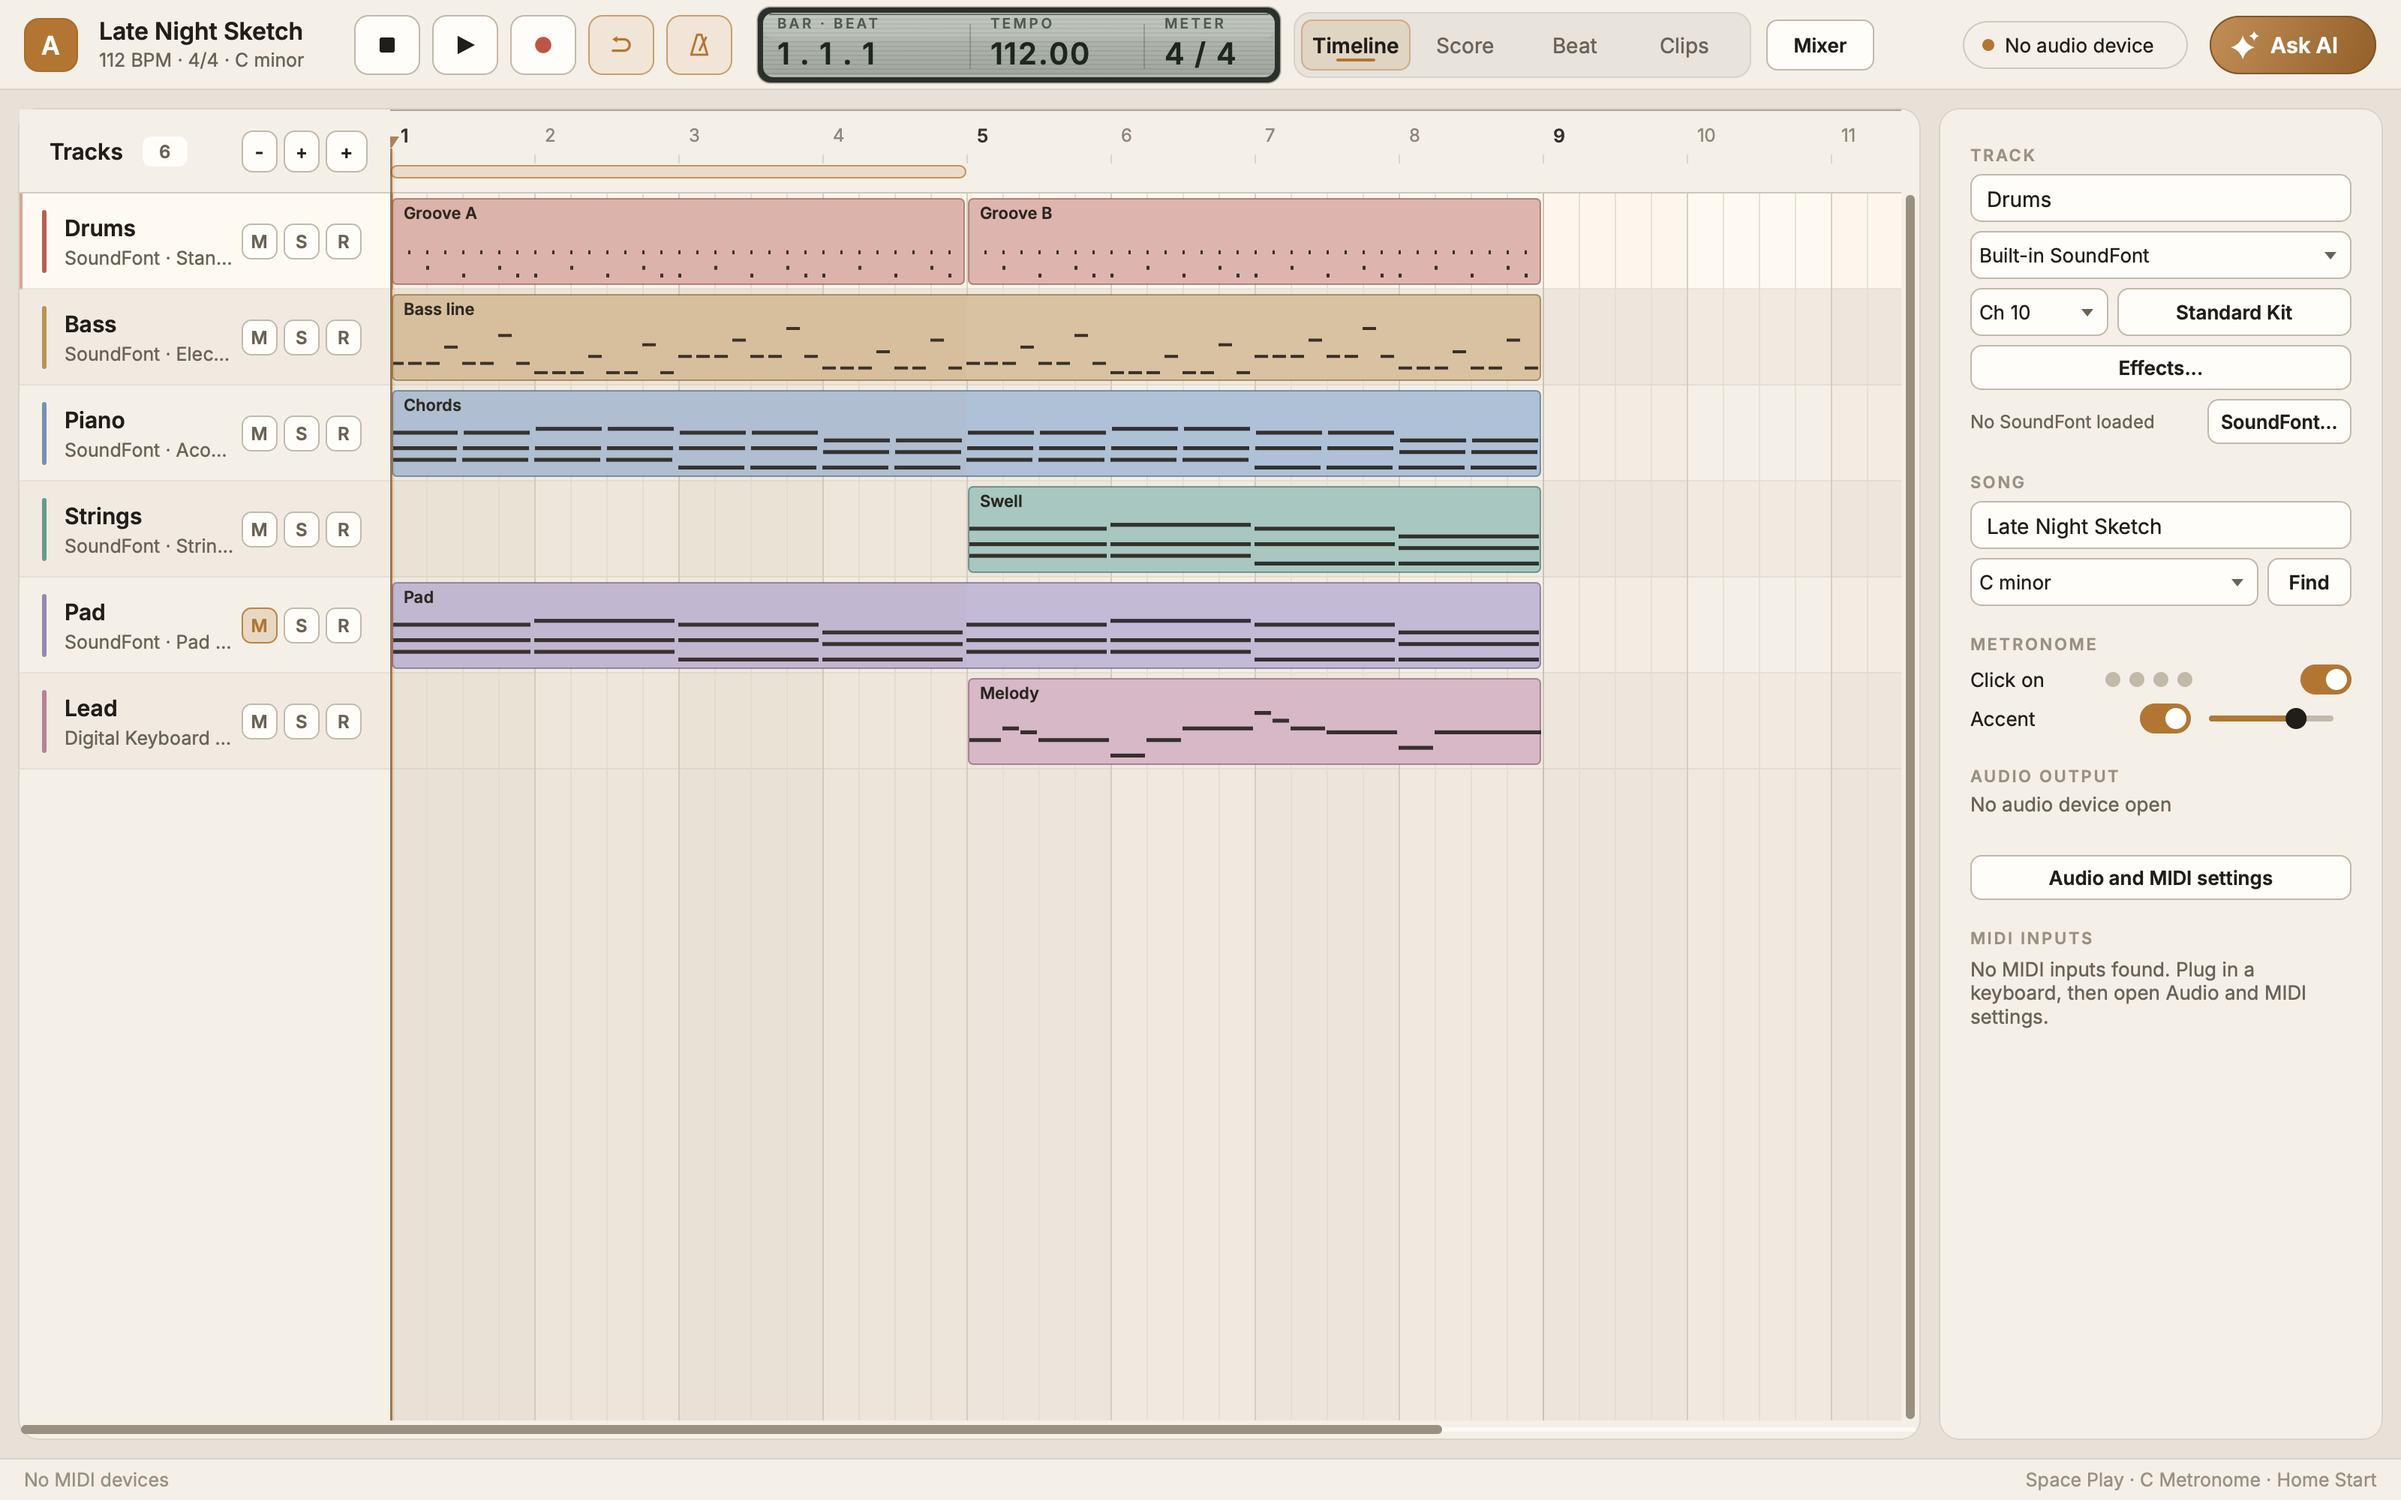
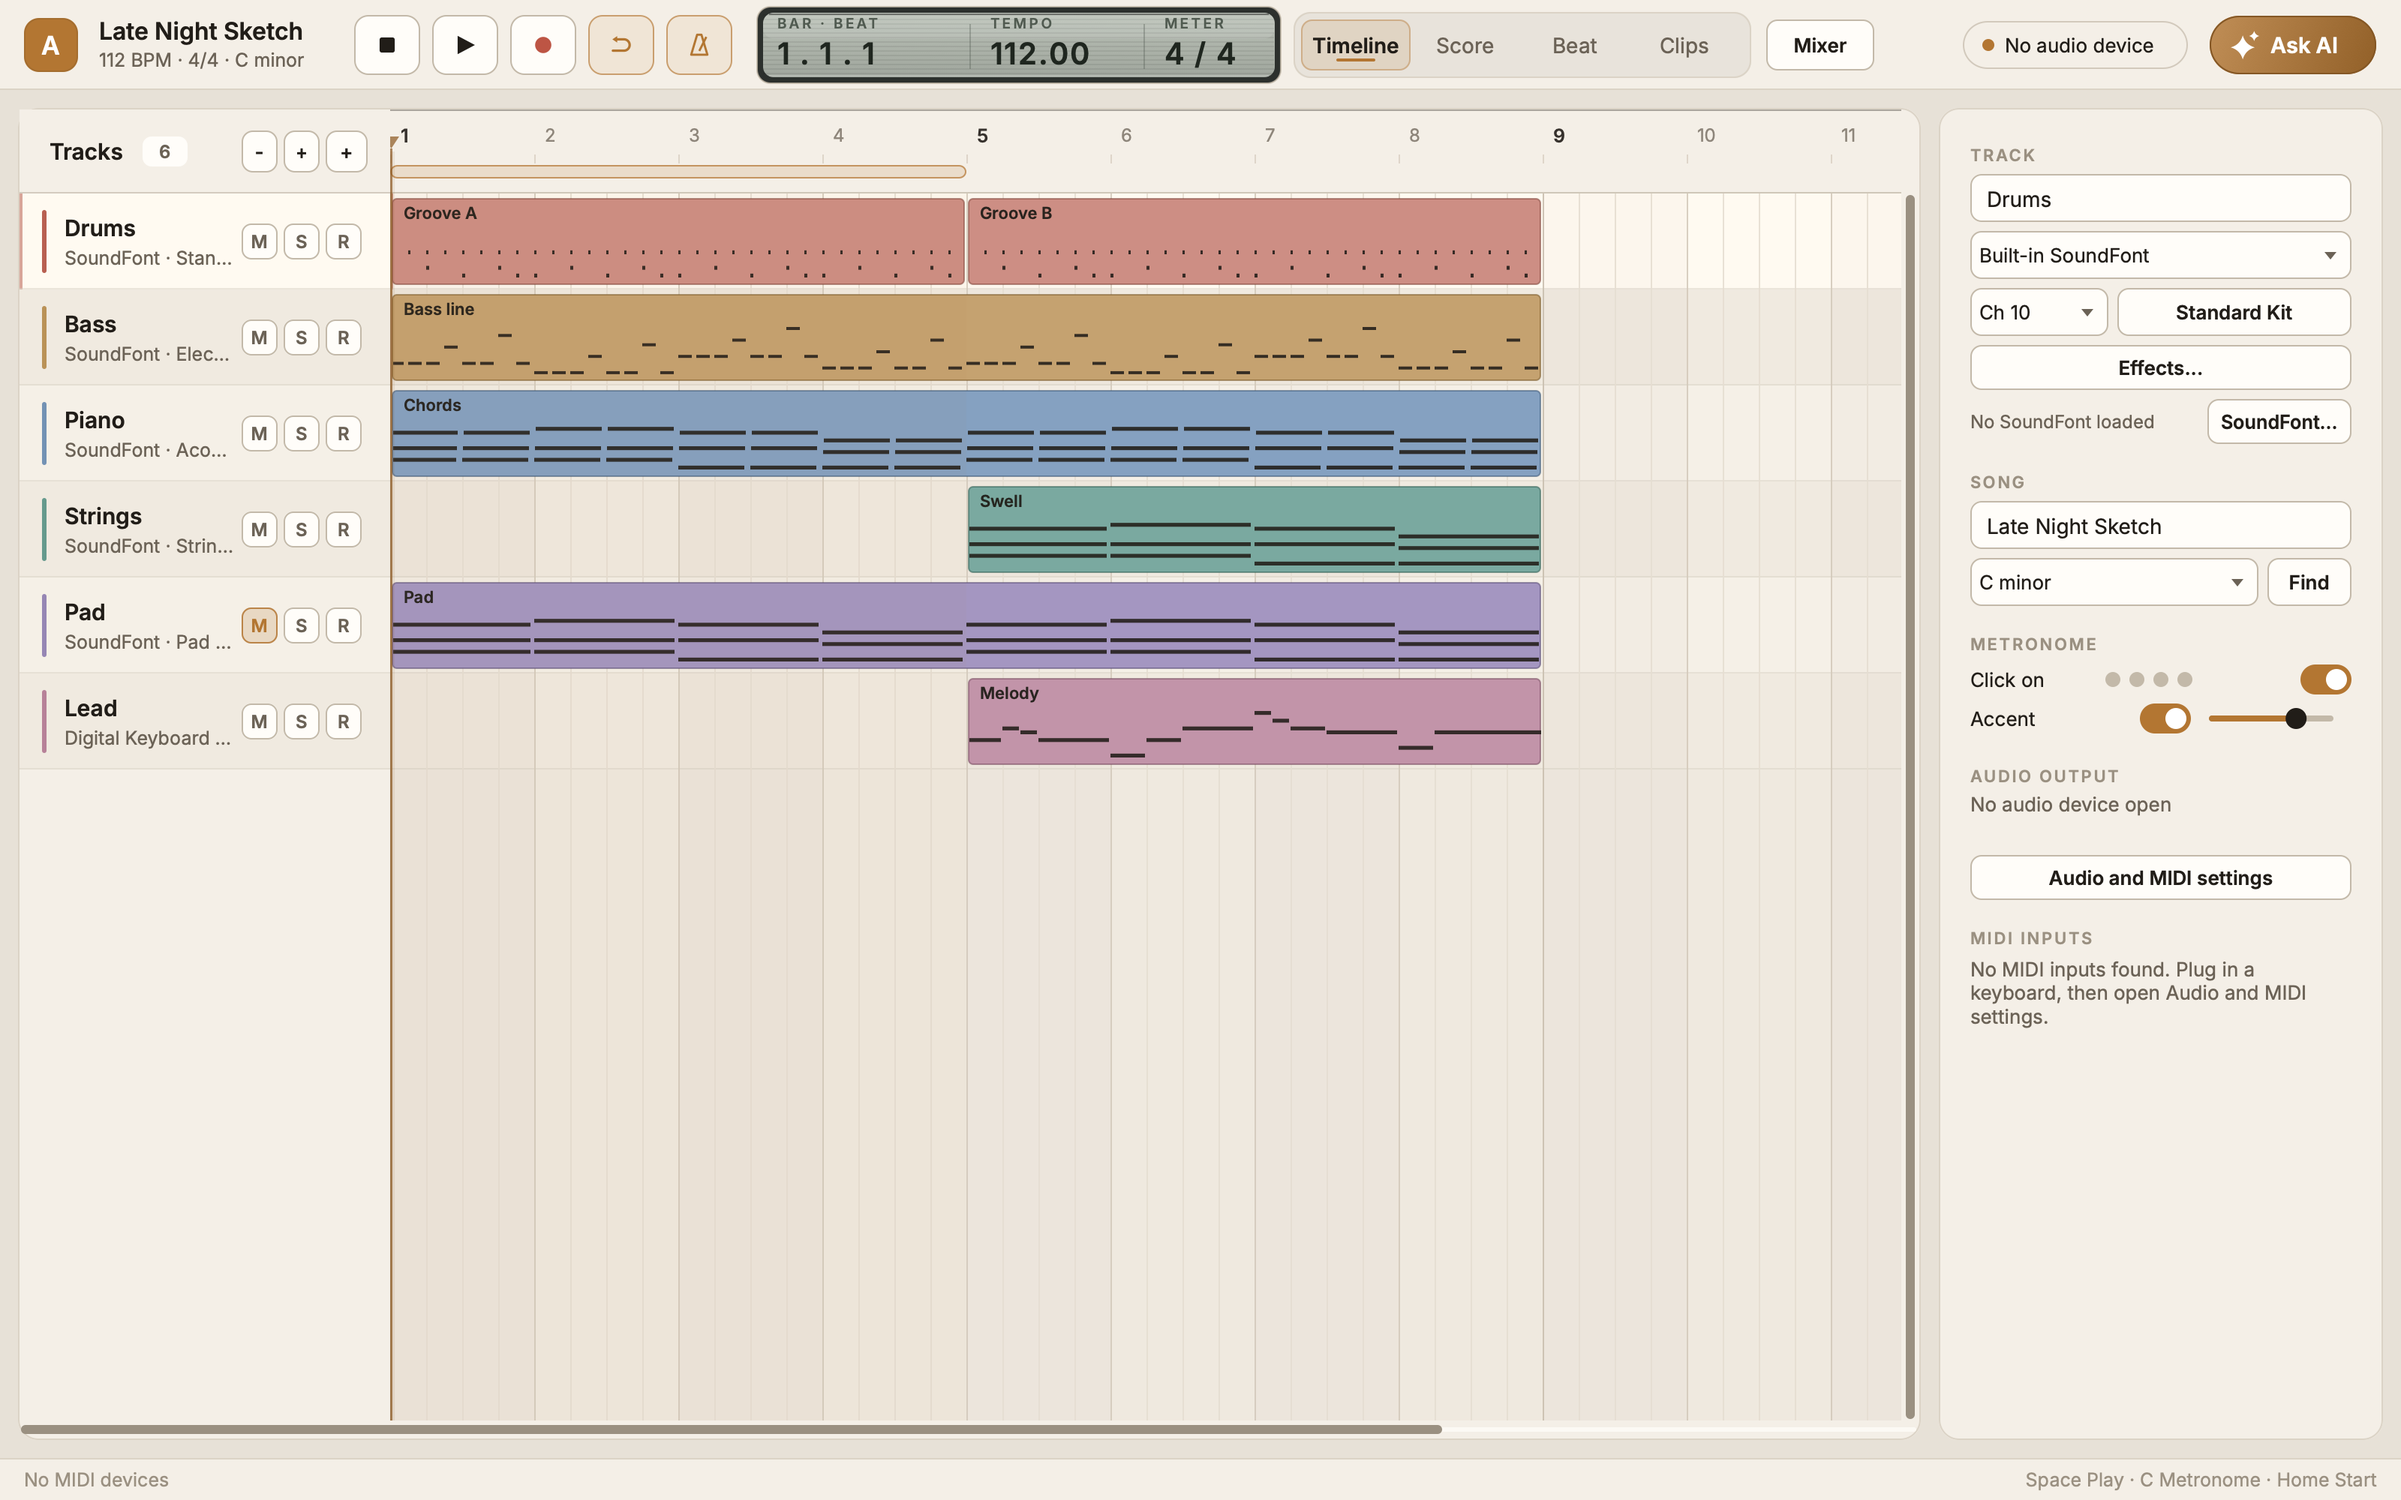
Vibrant clips, a filling Beat grid and a live Score cursor

Changed region(s): [[0.1562, 0.124, 0.6562, 0.527]]

diff --git a/src/app/ui/ScoreView.cpp b/src/app/ui/ScoreView.cpp
@@ -123,6 +123,50 @@ public:
         return {};
     }
 
+    /** Moves the playback cursor and repaints only the two thin strips that change. */
+    void updatePlayhead (Tick tick, bool playing)
+    {
+        Cursor next;
+        if (playing)
+        {
+            for (const auto& bar : view.layout.bars)
+            {
+                if (tick < bar.start || tick >= bar.start + bar.length)
+                    continue;
+                const float barX = score::xOfTick (view.layout, bar.page, bar.staff, bar.top, tick);
+                if (barX <= 0.0f)
+                    continue;
+                if (next.page < 0)
+                {
+                    next.page = bar.page;
+                    next.x = barX;
+                    next.top = bar.top;
+                    next.bottom = bar.top + 4.0f;
+                }
+                else if (next.page == bar.page)
+                {
+                    next.top = std::min (next.top, bar.top);
+                    next.bottom = std::max (next.bottom, bar.top + 4.0f);
+                }
+            }
+            if (next.page >= 0)
+            {
+                next.top -= 2.0f;
+                next.bottom += 2.0f;
+            }
+        }
+
+        if (next.page == cursor.page && next.x == cursor.x && next.top == cursor.top && next.bottom == cursor.bottom)
+            return;
+        const auto oldRect = cursorBounds (cursor);
+        cursor = next;
+        const auto newRect = cursorBounds (cursor);
+        if (! oldRect.isEmpty())
+            repaint (oldRect.expanded (4.0f).getSmallestIntegerContainer());
+        if (! newRect.isEmpty())
+            repaint (newRect.expanded (4.0f).getSmallestIntegerContainer());
+    }
+
     /** The page under a point, and the point in the page's staff spaces. */
     bool locate (juce::Point<float> at, int& page, float& x, float& y) const
     {
@@ -138,6 +182,21 @@ public:
             }
         }
         return false;
+    }
+
+    struct Cursor
+    {
+        int page = -1;
+        float x = 0.0f, top = 0.0f, bottom = 0.0f;
+    };
+
+    juce::Rectangle<float> cursorBounds (const Cursor& c) const
+    {
+        if (c.page < 0)
+            return {};
+        const auto paper = paperOf (static_cast<std::size_t> (c.page));
+        const float s = scale();
+        return { paper.getX() + c.x * s - 1.5f, paper.getY() + c.top * s, 3.0f, (c.bottom - c.top) * s };
     }
 
     void mouseDown (const juce::MouseEvent& e) override
@@ -232,11 +291,25 @@ public:
                     g.fillEllipse (juce::Rectangle<float> (1.4f * s, 1.0f * s).withCentre (toPixels (view.ghost.x, view.ghost.y)));
                 }
             }
+            if (cursor.page == static_cast<int> (i))
+            {
+                const float cx = paper.getX() + cursor.x * s;
+                const float top = paper.getY() + cursor.top * s;
+                const float bottom = paper.getY() + cursor.bottom * s;
+                g.setColour (accent.withAlpha (0.10f));
+                g.fillRect (juce::Rectangle<float> (cx - 2.0f, top, 4.0f, bottom - top));
+                g.setColour (accent.withAlpha (0.9f));
+                g.fillRect (juce::Rectangle<float> (cx - 0.75f, top, 1.5f, bottom - top));
+                juce::Path head;
+                head.addTriangle (cx - 4.0f, top - 6.0f, cx + 4.0f, top - 6.0f, cx, top);
+                g.fillPath (head);
+            }
         }
     }
 
 private:
     ScoreView& view;
+    Cursor cursor;
 };
 
 // ---------------------------------------------------------------------------
@@ -340,6 +413,13 @@ const score::Layout& ScoreView::currentLayout()
 {
     rebuild();
     return layout;
+}
+
+void ScoreView::refresh()
+{
+    rebuild();
+    if (pages != nullptr)
+        pages->updatePlayhead (session.position(), session.isPlaying());
 }
 
 namespace

diff --git a/src/app/ui/TimelineViews.cpp b/src/app/ui/TimelineViews.cpp
@@ -524,7 +524,7 @@ void Arrangement::drawClip (juce::Graphics& g, const Clip& clip, juce::Rectangle
     const float radius = 3.0f;
     const auto body = r.reduced (0.5f);
     const auto ink = t.isDark ? juce::Colour (0xff111417) : t.colour ("text");
-    auto paper = c.interpolatedWith (juce::Colours::white, selected ? 0.66f : 0.54f);
+    auto paper = c.interpolatedWith (juce::Colours::white, selected ? 0.40f : 0.30f);
     if (ghost)
         paper = paper.withAlpha (0.28f);
 
@@ -1642,7 +1642,7 @@ void Arrangement::drawAudioClip (juce::Graphics& g, const AudioClip& clip, juce:
     const float radius = 3.0f;
     const auto body = r.reduced (0.5f);
     const auto ink = t.isDark ? juce::Colour (0xff111417) : t.colour ("text");
-    auto paper = c.interpolatedWith (juce::Colours::white, selected ? 0.66f : 0.54f);
+    auto paper = c.interpolatedWith (juce::Colours::white, selected ? 0.40f : 0.30f);
     if (ghost)
         paper = paper.withAlpha (0.28f);
 

diff --git a/src/app/ui/BeatView.cpp b/src/app/ui/BeatView.cpp
@@ -267,7 +267,7 @@ int BeatView::rowHeight() const
 {
     // Rows grow to use the space, within sensible limits.
     const int count = juce::jmax (1, static_cast<int> (rows().size()));
-    return juce::jlimit (30, 60, (getHeight() - kHeader - 40) / count);
+    return juce::jmax (24, (getHeight() - kHeader - 40) / count);
 }
 
 juce::Rectangle<int> BeatView::gridArea() const
@@ -279,7 +279,7 @@ juce::Rectangle<float> BeatView::cell (int row, int step) const
 {
     const auto area = gridArea().toFloat();
     const int steps = juce::jmax (1, stepCount());
-    const float w = juce::jmin (64.0f, area.getWidth() / static_cast<float> (steps));
+    const float w = area.getWidth() / static_cast<float> (steps);
     const auto h = static_cast<float> (rowHeight());
     return { area.getX() + static_cast<float> (step) * w, area.getY() + static_cast<float> (row) * h, w, h };
 }

diff --git a/src/app/ui/MainComponent.cpp b/src/app/ui/MainComponent.cpp
@@ -480,6 +480,7 @@ void MainComponent::setPreviewPosition (double ticks, bool playing)
     live.positionTicks = ticks;
     live.playing = playing;
     header.refresh();
+    score.refresh();
     inspector.refresh();
 }
 
@@ -555,6 +556,8 @@ void MainComponent::timerCallback()
     header.refresh();
     if (view == viewTimeline)
         arrangement.refresh();
+    if (view == viewScore)
+        score.refresh();
     if (mixerShown)
         mixer.refresh();
     if (view == viewBeat)

diff --git a/src/app/ui/ScoreView.h b/src/app/ui/ScoreView.h
@@ -33,6 +33,9 @@ public:
     /** The pages as they are now (for tests and the screenshot tool). */
     const score::Layout& currentLayout();
 
+    /** Moves the playback cursor. Call often while the Score view is shown. */
+    void refresh();
+
     // ---- editing ---------------------------------------------------------------
     /** Note input: a click on a staff, a letter key or a key of the MIDI keyboard writes a note. */
     void setNoteInput (bool);

diff --git a/docs/style-guide.md b/docs/style-guide.md
@@ -9,7 +9,7 @@ The look of Arranger MIDI DAW: a warm charcoal studio with a copper accent, mode
 - **Calm.** Dark warm greys, one accent colour, colour only where it means something (track colours, play, record, activity).
 - **Fast to draw.** Everything is vector. No images, no shadows that need blurring, no animation that waits. Nothing repaints unless it changed, so an idle app uses close to 0% CPU.
 - **One colour per track.** A track keeps its colour in every view: timeline, piano roll, score, beat grid and clip grid.
-- **Music reads first.** Timeline clips are flat pastel blocks with black notes and waveforms. No gloss or heavy shadow competes with the music.
+- **Music reads first.** Timeline clips are flat, vibrant colour blocks with black notes and waveforms. No gloss or heavy shadow competes with the music.
 - **Keyboard first.** Every action has a command and a shortcut. A command palette comes later.
 - **Themes are files.** Colours and sizes live in `resources/themes/*.json`. Change the file, not the code.
 

diff --git a/docs/user-manual.md b/docs/user-manual.md
@@ -389,7 +389,8 @@ rhythm.
 ## Beat view
 
 The Beat view is a step sequencer for the selected track. Each row is a drum
-sound. Each column is a step.
+sound. Each column is a step. The grid fills the window: resize the window to
+make the steps wider or taller.
 
 1. Click a drum track.
 2. Click the `Beat` tab, or push `Cmd+4`. You can also double-click a clip on a drum track.
@@ -656,7 +657,8 @@ is available only when the score shows one track.
 The PDF and the printed score show the same tracks as the screen.
 
 The score shows the notes that the track plays on the Timeline. Loops play
-again in the score, as on the Timeline.
+again in the score, as on the Timeline. While the song plays, a copper cursor
+moves across the score.
 
 ### How the app writes the notes
 
